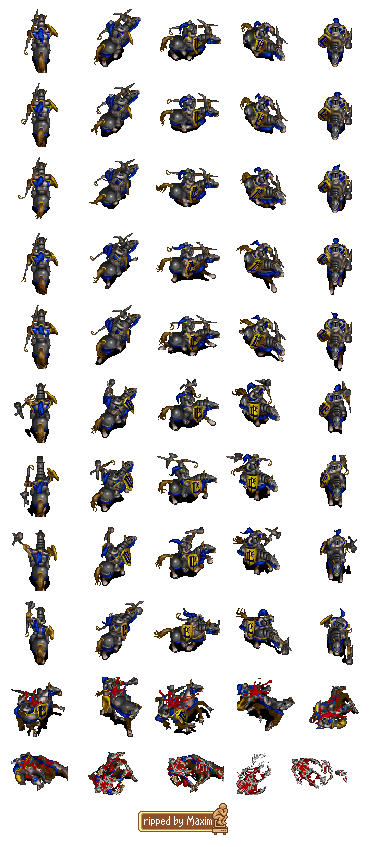
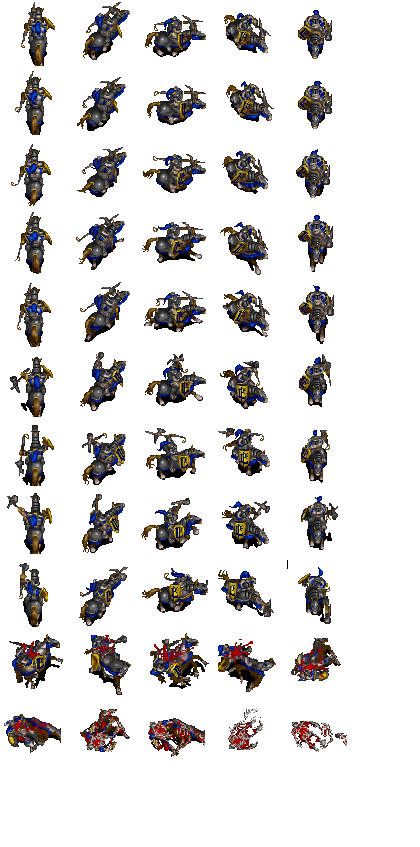
The knight is here

diff --git a/wegasGame/client/game.js b/wegasGame/client/game.js
@@ -29,6 +29,8 @@ function onIdentify(data) {
 
     me.units.push(new Unit(game, 'unit1_1', 'unit1', me.name, 1, 100, 10, 10, 100));
 
+    me.units.push(new Unit(game, 'unit3_1', 'unit3', me.name, 1, 100, 10, 10, 100));
+
 
     var unitCreated = me.units[0].create(329, 384);
 
@@ -80,6 +82,8 @@ function preload() {
     //TODO: Incarcare din baza de date, trimitere la player doar ce are nevoie
     game.load.spritesheet('unit1_1', '/client/assets/img/footman1.png', 70, 70);
     game.load.spritesheet('unit1_2', '/client/assets/img/footman2.png', 70, 70);
+    game.load.spritesheet('unit3_1', '/client/assets/img/unit3_1.png', 70, 70);
+    game.load.spritesheet('unit3_2', '/client/assets/img/unit3_2.png', 70, 70);
 }
 
 

diff --git a/wegasGame/client/assets/js/GUI.js b/wegasGame/client/assets/js/GUI.js
@@ -29,6 +29,8 @@ var GUI = function () {
 GUI.prototype.actionOnClickSoldat = function () {
     console.log("Am apasat soldat");
     me.coins = 1300;
+    var unitCreated2 = me.units[0].create(393, 384);
+    me.createdUnits.push(unitCreated2);
 };
 
 GUI.prototype.actionOnClickArcas = function () {
@@ -39,6 +41,8 @@ GUI.prototype.actionOnClickArcas = function () {
 GUI.prototype.actionOnClickCalaret = function () {
     console.log("Am apasat calaret");
     me.coins = 1100;
+    var unitCreated2 = me.units[1].create(393, 384);
+    me.createdUnits.push(unitCreated2);
 };
 
 GUI.prototype.update = function () {
